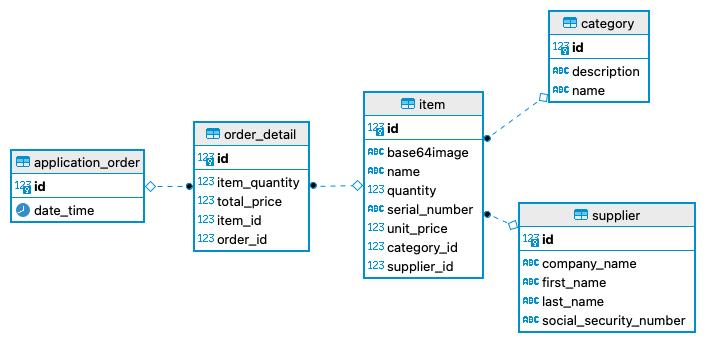
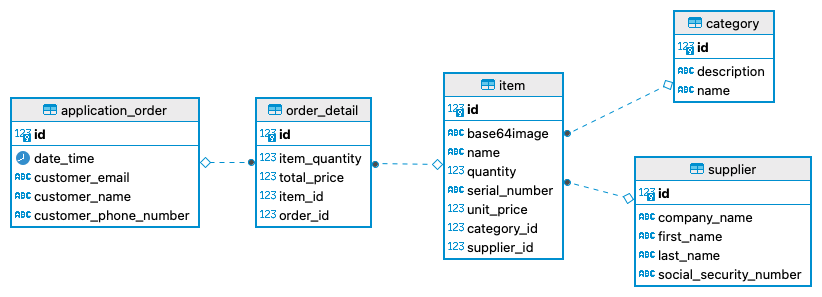
Added customer information to order

Changed region(s): [[0.0, 0.2424, 0.9972, 1.0], [0.7479, 0.0, 0.966, 0.3636], [0.7167, 0.3333, 0.7479, 0.3636]]

diff --git a/src/main/java/com/glorious73/gloriouswarehouse/dto/OrderDTO.java b/src/main/java/com/glorious73/gloriouswarehouse/dto/OrderDTO.java
@@ -4,6 +4,49 @@ import java.time.LocalDateTime;
 import java.util.Set;
 
 public class OrderDTO {
-    public LocalDateTime localDateTime = LocalDateTime.now();
-    public Set<ItemDTO> items;
+    private LocalDateTime localDateTime = LocalDateTime.now();
+    private String customerName;
+    private String customerEmail;
+    private String customerPhoneNumber;
+    private Set<ItemDTO> items;
+
+    public LocalDateTime getLocalDateTime() {
+        return localDateTime;
+    }
+
+    public void setLocalDateTime(LocalDateTime localDateTime) {
+        this.localDateTime = localDateTime;
+    }
+
+    public String getCustomerName() {
+        return customerName;
+    }
+
+    public void setCustomerName(String customerName) {
+        this.customerName = customerName;
+    }
+
+    public String getCustomerEmail() {
+        return customerEmail;
+    }
+
+    public void setCustomerEmail(String customerEmail) {
+        this.customerEmail = customerEmail;
+    }
+
+    public String getCustomerPhoneNumber() {
+        return customerPhoneNumber;
+    }
+
+    public void setCustomerPhoneNumber(String customerPhoneNumber) {
+        this.customerPhoneNumber = customerPhoneNumber;
+    }
+
+    public Set<ItemDTO> getItems() {
+        return items;
+    }
+
+    public void setItems(Set<ItemDTO> items) {
+        this.items = items;
+    }
 }

diff --git a/src/main/java/com/glorious73/gloriouswarehouse/entities/Order.java b/src/main/java/com/glorious73/gloriouswarehouse/entities/Order.java
@@ -13,6 +13,9 @@ public class Order {
     @GeneratedValue(strategy = GenerationType.IDENTITY)
     private int id;
     private LocalDateTime dateTime;
+    private String customerName;
+    private String customerEmail;
+    private String customerPhoneNumber;
     @OneToMany(fetch = FetchType.EAGER, cascade= CascadeType.ALL, mappedBy="order",targetEntity=OrderDetail.class)
     @JsonManagedReference(value="order")
     private Collection<OrderDetail> orderDetails;
@@ -31,6 +34,30 @@ public class Order {
 
     public void setDateTime(LocalDateTime dateTime) {
         this.dateTime = dateTime;
+    }
+
+    public String getCustomerName() {
+        return customerName;
+    }
+
+    public void setCustomerName(String customerName) {
+        this.customerName = customerName;
+    }
+
+    public String getCustomerEmail() {
+        return customerEmail;
+    }
+
+    public void setCustomerEmail(String customerEmail) {
+        this.customerEmail = customerEmail;
+    }
+
+    public String getCustomerPhoneNumber() {
+        return customerPhoneNumber;
+    }
+
+    public void setCustomerPhoneNumber(String customerPhoneNumber) {
+        this.customerPhoneNumber = customerPhoneNumber;
     }
 
     public Collection<OrderDetail> getOrderDetails() {
